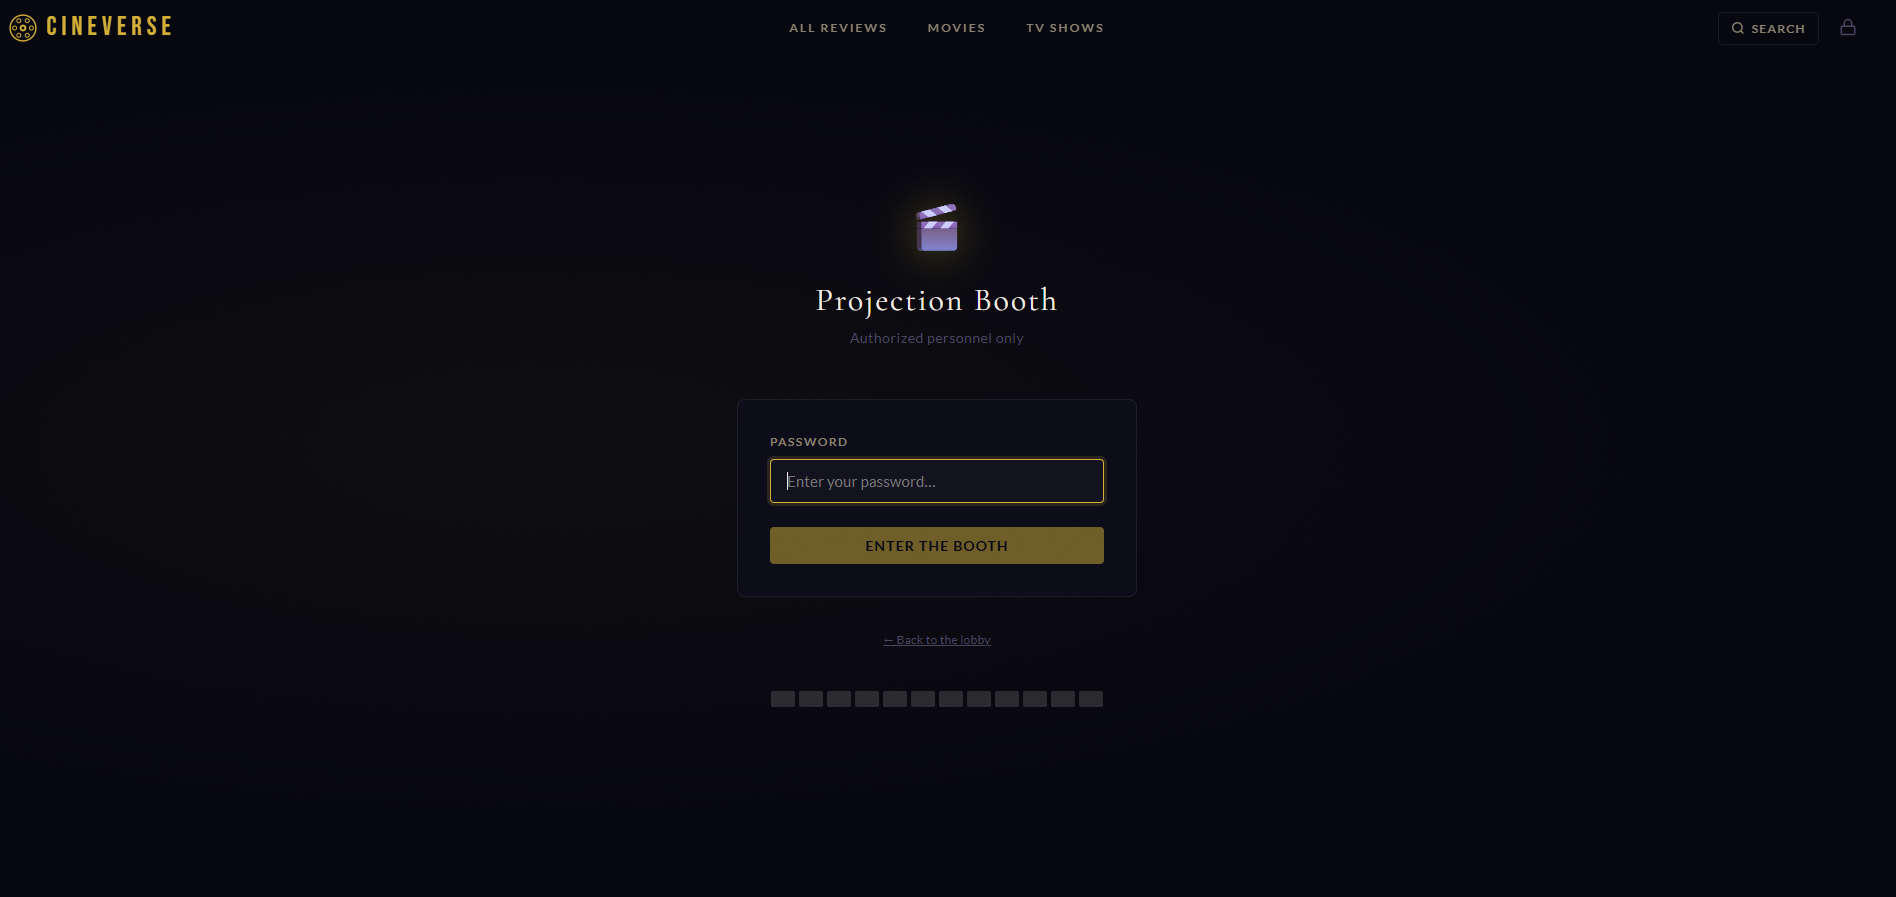
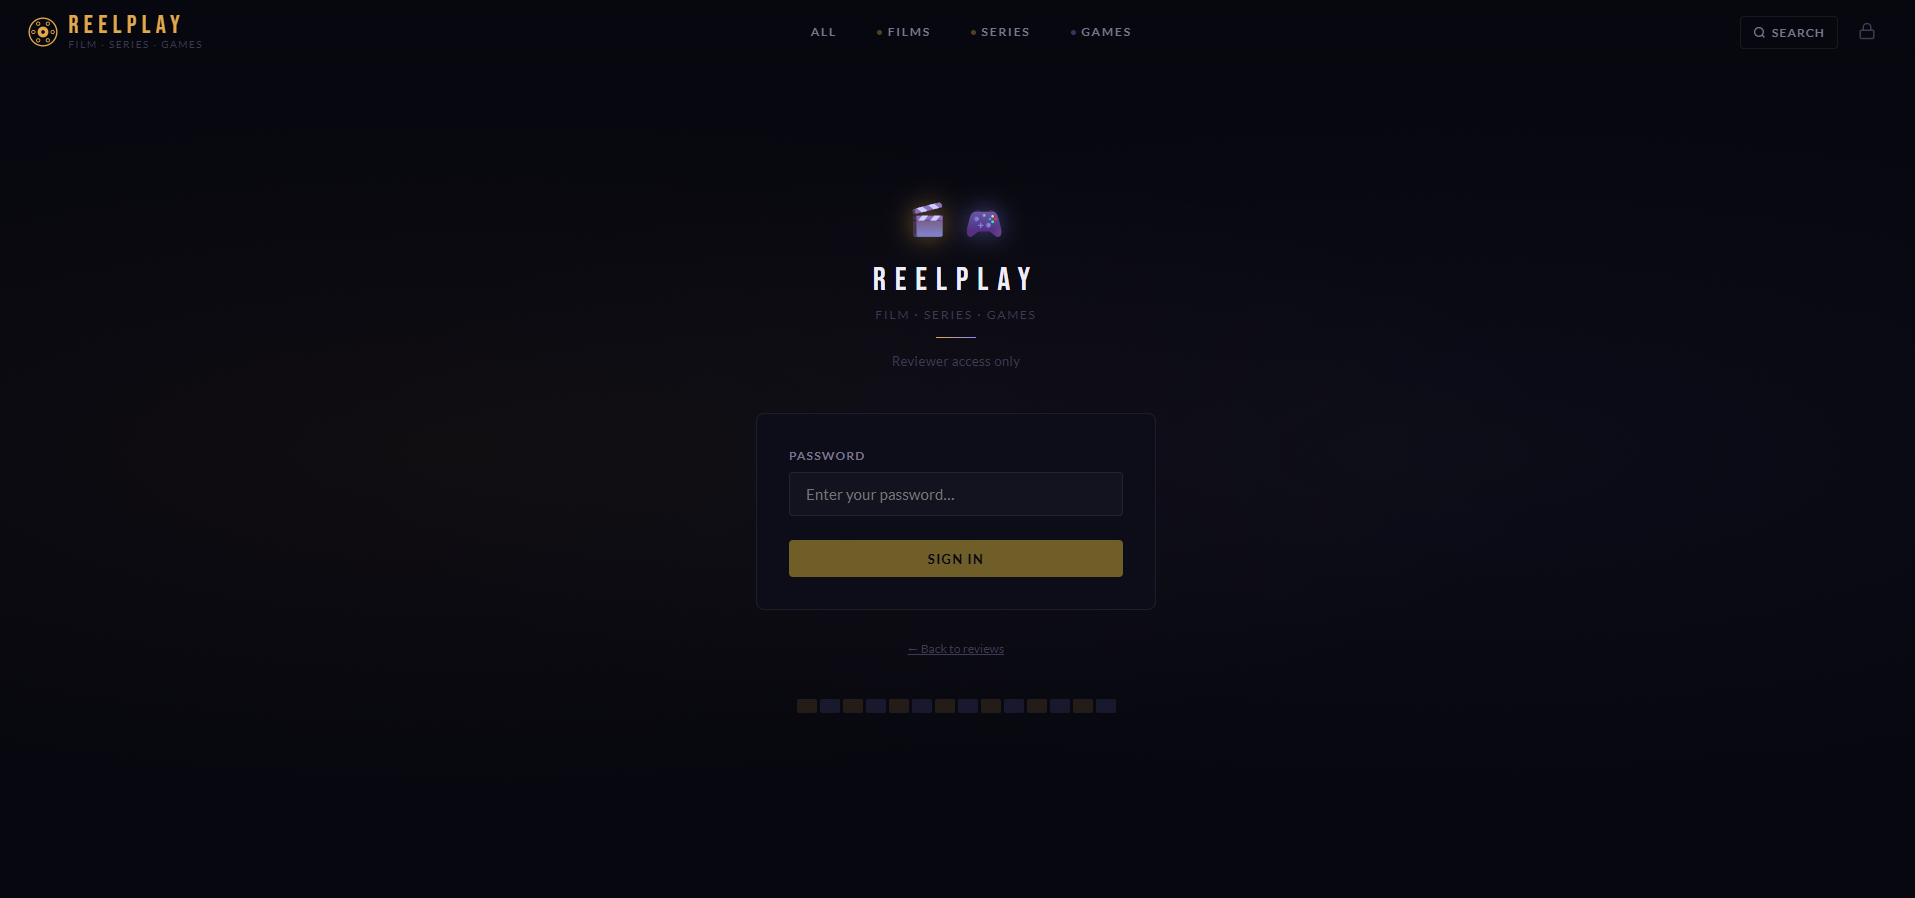
feat: Add video game reviews section to README; update images from README to recent version

diff --git a/README.md b/README.md
@@ -16,6 +16,13 @@ This app is deployed in Vercel under the link: [CineVerse on Vercel](https://cin
 - **Netflix-Style Hero Banner** - Every movie/show detail page opens with an auto-playing, muted YouTube trailer filling the entire header. A prominent **Unmute** button and volume slider let you dive in immediately.
 - **Theater Mode** - A dedicated "Watch Trailer" button dims the entire page to 90% black and centers the player for a distraction-free experience. Press `ESC` or click outside to exit.
 
+### 🎮 Video Game Reviews
+- **RAWG-powered** - game data, cover art, Metacritic scores, platforms, developers
+- **Screenshot lightbox** - full-screen gallery with previous/next navigation
+- **Trailer support** - YouTube IDs and direct MP4 clips both handled
+- **Platform badges** - PS5, Xbox Series, PC, Switch and more displayed on cards and detail pages
+- **Scanline overlay** - game cards and game routes use a CRT scanline texture instead of film grain
+
 ### 🎨 Adaptive UI/UX
 - **Dynamic Color Palettes** - Uses [ColorThief](https://lokeshdhakar.com/projects/color-thief/) to extract the dominant colors from the official movie poster, then dynamically updates accent colors, button highlights, and background gradients to perfectly match the film being viewed.
 - **Film Grain Overlay** - A canvas-based animated film grain texture rendered over the entire page for an authentic cinematic feel.
